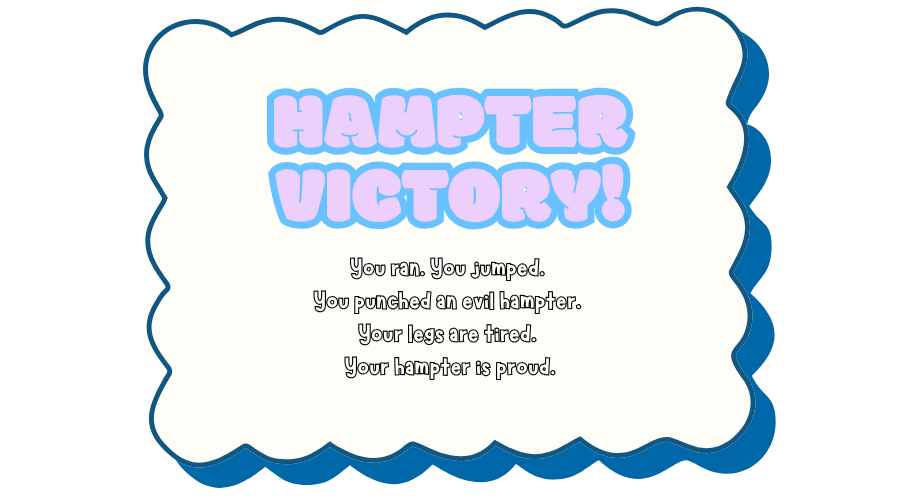
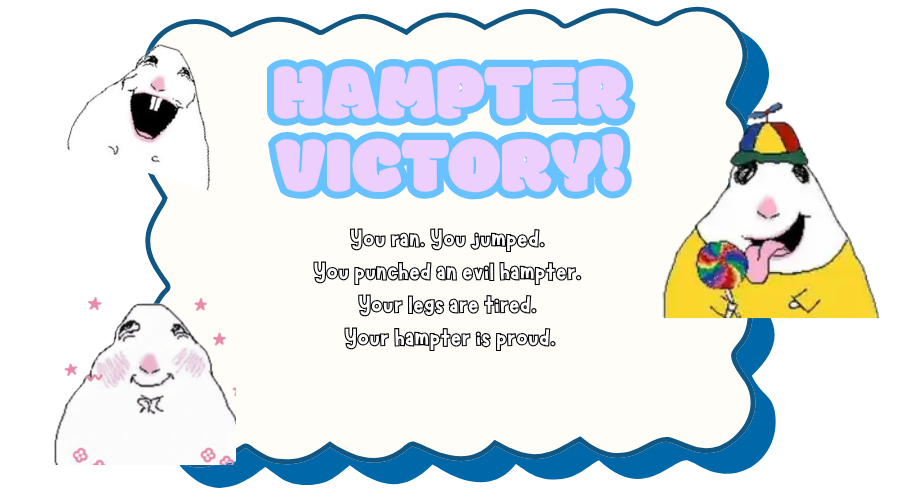
Final touches (for now)

diff --git a/src/main.js b/src/main.js
@@ -12,9 +12,7 @@ const gestures = new GestureDetector();
 
 const video = document.querySelector("#webcam");
 const canvas = document.querySelector("#overlay");
-const status = document.querySelector("#status");
-const start = document.querySelector("#start");
-const stop = document.querySelector("#stop");
+const toggle = document.querySelector("#toggleCamera");
 const cameraBox = document.querySelector(".camera");
 const cameraPanel = document.querySelector(".camera-panel");
 
@@ -85,6 +83,15 @@ const BATTLE_CAM_GAP = 14; // game pixels between the webcam and the head
 let followingHampter = false;
 
 function followHampter() {
+  // Hide the webcam during the black pixel transitions, show it again once the next scene is in
+  const transitioning =
+    game.state === "playing" &&
+    (game.scene === "wipe" ||
+      game.scene === "reveal" ||
+      game.scene === "exitWipe" ||
+      game.exitRevealLeft > 0);
+  cameraPanel.style.visibility = transitioning ? "hidden" : "";
+
   const follow =
     cameraRunning &&
     game.state === "playing" &&
@@ -160,13 +167,12 @@ function detectBodyPosition(landmarks) {
   };
 }
 
-// START WEBCAM
-start.addEventListener("click", async () => {
-  start.disabled = true;
-  status.textContent = "Loading pose model...";
+// TURN THE WEBCAM ON
+async function enableCamera() {
+  toggle.disabled = true;
 
   try {
-    tracker = await createPoseTracker();
+    if (!tracker) tracker = await createPoseTracker();
 
     const stream =
       await navigator.mediaDevices.getUserMedia({
@@ -184,19 +190,19 @@ start.addEventListener("click", async () => {
 
     lastVideoTime = -1;
     cameraRunning = true;
+    toggle.textContent = "Disable Camera";
 
-    status.textContent = "Tracking!";
 
     requestAnimationFrame(trackFrame);
 
   } catch (error) {
-    status.textContent = `Error: ${error.message}`;
-    start.disabled = false;
+  } finally {
+    toggle.disabled = false;
   }
-});
+}
 
-// STOP WEBCAM
-stop.addEventListener("click", () => {
+// TURN THE WEBCAM OFF
+function disableCamera() {
   cameraRunning = false;
 
   const stream = video.srcObject;
@@ -219,10 +225,15 @@ stop.addEventListener("click", () => {
     })
   );
 
-  status.textContent = "Camera off";
+  toggle.textContent = "Enable Camera";
 
   cameraBox.style.display = "none";
-  start.disabled = false;
+}
+
+// ONE BUTTON: click to turn the camera on, click again to turn it off
+toggle.addEventListener("click", () => {
+  if (cameraRunning) disableCamera();
+  else enableCamera();
 });
 
 // MEDIAPIPE TRACKING LOOP
@@ -256,8 +267,6 @@ function trackFrame() {
 
       const punches = punchDetector.update(landmarks);
 
-      status.textContent =
-        `LEFT: ${punches.leftPunch} | RIGHT: ${punches.rightPunch}`;
 
       // Either arm triggers SLASH
       if (punches.leftPunch || punches.rightPunch) {
@@ -324,7 +333,6 @@ function trackFrame() {
       }
 
     } else {
-      status.textContent = "Waiting for gameplay...";
     }
   }
 

diff --git a/src/styles/styles.css b/src/styles/styles.css
@@ -1,3 +1,5 @@
+@import url("https://fonts.googleapis.com/css2?family=Fredoka:wght@600&display=swap");
+
 * {
   box-sizing: border-box;
 }
@@ -31,7 +33,7 @@ body {
   right: 16px;
   z-index: 10;
 
-  width: 200px;
+  max-width: 250px;
   padding: 0;
   background: transparent;
   border: none;
@@ -51,10 +53,11 @@ h1 {
   font-size: 16px;
 }
 
-#start {
+#toggleCamera {
   flex-shrink: 0;
   padding: 7px 10px;
   cursor: pointer;
+  width: 100%;
 }
 
 #status,
@@ -152,4 +155,45 @@ h1 {
 #instructions[hidden],
 #credits[hidden] {
   display: none;
+}
+
+
+#toggleCamera {
+  width: 100%;
+  padding: 12px 14px;  /* was 8px 10px: taller and roomier */
+  cursor: pointer;
+
+  font-family: "Fredoka", "Trebuchet MS", sans-serif;
+  font-size: 18px;     /* was 14px */
+  font-weight: 600;
+  letter-spacing: 1px;
+  text-transform: uppercase;
+  color: #ffffff;
+  text-shadow: 0 2px 0 #600303;
+
+  background: linear-gradient(#d20909 0%, #b50404 55%, #950101 100%);
+  border: 3px solid #a21111;
+  border-radius: 12px;
+  box-shadow:
+    inset 0 3px 0 rgba(255, 255, 255, 0.55), /* shiny top edge */
+    0 4px 0 #630707;                         /* chunky bottom edge */
+
+  transition: transform 0.08s ease;
+}
+
+#toggleCamera:hover {
+  transform: scale(0.96); /* shrinks like the canvas buttons */
+}
+
+#toggleCamera:active {
+  transform: translateY(3px) scale(0.96);
+  box-shadow:
+    inset 0 3px 0 rgba(255, 255, 255, 0.55),
+    0 1px 0 #14518f;
+}
+
+#toggleCamera:disabled {
+  filter: grayscale(0.4);
+  opacity: 0.8;
+  cursor: wait;
 }

diff --git a/src/game/game.js b/src/game/game.js
@@ -39,7 +39,7 @@ const audioState = { muted: false };
 // normal audio element allows (its volume tops out at 1). Each sound is loaded
 // once, then every play is a fresh copy, so quick repeats overlap.
 const SFX_GAIN = 1.8; // 1 = original loudness, higher = louder (too high can distort)
-const ENEMY_GAIN = 0.7; // the "enemy detected" sound is quieter than the rest (lower = quieter)
+const ENEMY_GAIN = 0.5; // the "enemy detected" sound is quieter than the rest (lower = quieter)
 const GAMEOVER_GAIN = 1; // the game over sound (lower = quieter)
 let sfxContext = null;
 const sfxBuffers = {}; // src -> decoded audio (or a promise while it loads)
@@ -139,9 +139,9 @@ const HOVER_SCALE = 0.94;
 
 // Win screen: Play sits left of the text in the victory box, Menu sits right of it.
 // Tweak these (in canvas pixels, the canvas is 900x500) to nudge the buttons.
-const WIN_BUTTON_WIDTH = 140;
-const WIN_BUTTON_OFFSET = 205; // distance of each button's center from the screen center
-const WIN_BUTTONS_CENTER_Y = 313; // vertical middle of the buttons
+const WIN_BUTTON_WIDTH = 175;
+const WIN_BUTTON_OFFSET = 105; // distance of each button's center from the screen center
+const WIN_BUTTONS_CENTER_Y = 400; // vertical middle of the buttons
 
 // Where the mouse is on the canvas (in canvas pixels), updated by the Game
 const pointer = { x: 0, y: 0, inside: false };

diff --git a/index.html b/index.html
@@ -19,11 +19,8 @@
     </div>
 
     <div class="camera-controls">
-      <button id="start">Enable Camera</button>
-      <button id="stop">Disable Camera</button>
+      <button id="toggleCamera" type="button">Enable Camera</button>
     </div>
-
-    <p id="status" role="status">Camera off</p>
 
 
   </aside>
